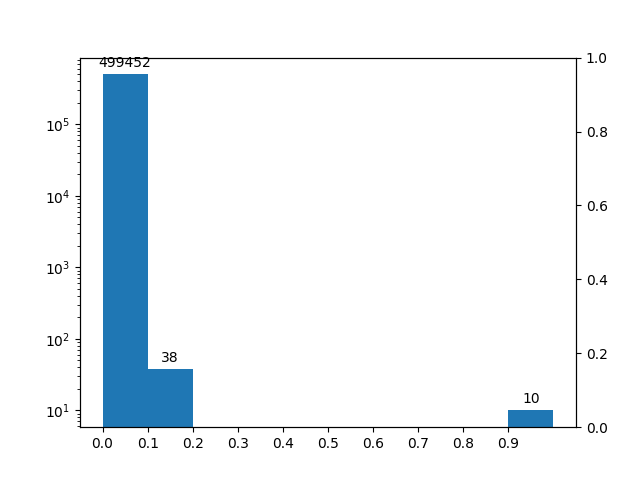
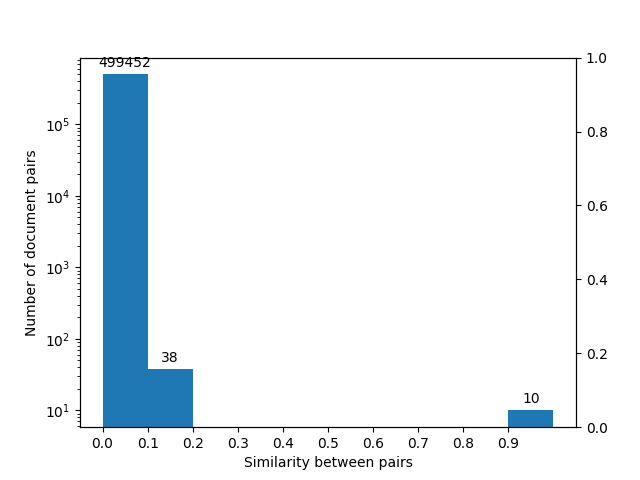
Update plots

Changed region(s): [[0.0312, 0.3125, 0.0625, 0.7188], [0.375, 0.9375, 0.6562, 1.0]]

diff --git a/src/sim_analysis.py b/src/sim_analysis.py
@@ -30,20 +30,26 @@ def plot_jaccard_distribution(docs, suffix, plot_sensitivity=False):
                     textcoords="offset points",
                     ha='center', va='bottom')
     plt.yscale("log")
+    plt.ylabel('Number of document pairs')
+    plt.xlabel('Similarity between pairs')
 
     if plot_sensitivity:
         _s = [i/1000 for i in range(0, 1000, 1)]
+        colors = ['c', 'm', 'y', 'g']
         axes2 = plt.twinx()
         for M in [20, 50, 100]:
-            for r in [2, 5, 10]:
+            color = 0
+            for r in [2, 4, 5, 10]:
                 plt.xticks(x_pos, x)
                 _y = [compute_sensitivity(s, M, r) for s in _s]
-                axes2.plot([s*10 for s in _s], _y, color='c', label='Sensitivity')
+                axes2.plot([s*10 for s in _s], _y, color=colors[color], label='r = %s' % (r))
                 axes2.set_ylim(0, 1)
                 # axes2.set_xlim(0, 1)
-                axes2.set_ylabel('Sensitivity')
-                plt.savefig('./plots/s_curve_%s_%s' % (M, r))
-                axes2.clear()
+                axes2.set_ylabel('Probability of sharing a bucket')
+                axes2.legend()
+                color += 1
+            plt.savefig('./plots/s_curve_%s' % (M))
+            axes2.clear()
 
     plt.xticks(x_pos, x)
     plt.savefig('./plots/sim_dist_%s.png' % (suffix))
